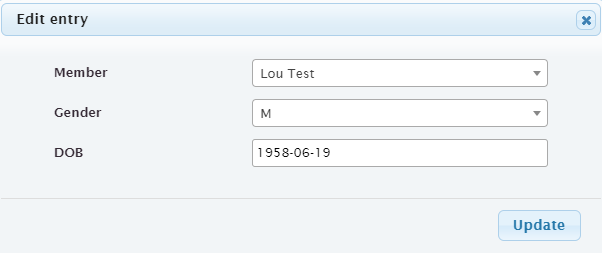
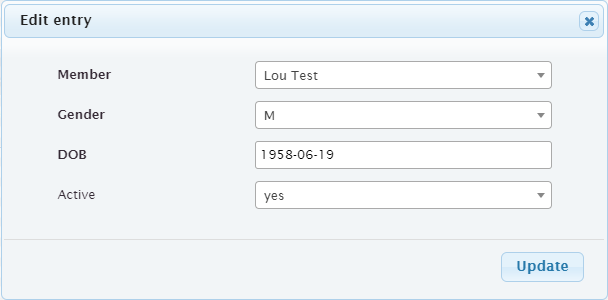
racing team members: add is_active, filter for active members (docs) (#520)

diff --git a/docs/racingteam-admin-guide.rst b/docs/racingteam-admin-guide.rst
@@ -58,10 +58,22 @@ add a member to the team
 ---------------------------
 The team :term:`member` :term:`terms <term>` are managed via the Racing Team Member :term:`position`.
 
-* from :ref:`Positions view` select *Racing Team Member* :term:`position`
-* use the :ref:`Position Wizard` to manage the team membership
-  
-  * add the :term:`member` on the effective date
+* :term:`positions <position>` are used indirectly to assign tasks to people. In the case of the racing team, the task  
+  the racing team member must do is agree to the racing team contract
+
+  * from :ref:`Positions view` select the appropriate *Racing Team Member* :term:`position` (depending on their term)
+  * use the :ref:`Position Wizard` to manage the team membership
+    
+    * add the :term:`member` on the effective date
+
+* :ref:`Racing Team Members view` is used to save the racing team member's gender and birth date, which is used to calculate age grade.
+  This table is also used to populate the name pull-down on the Racing Team Information form.
+
+  * from :ref:`Racing Team Members view`, check *Show inactive members* to see all the members, then search to 
+    see if the new member has been a member of the team before. 
+  * if the new member has been a member of the team before, select the member, then use **Edit** to set the 
+    member **Active** to *yes*
+  * otherwise use **New** to create the new member record
 
 team management
 ----------------------
@@ -79,6 +91,8 @@ The team :term:`member` :term:`terms <term>` are managed via the Racing Team Mem
 * use the :ref:`Position Wizard` to manage the team membership
   
   * remove the :term:`member` on the effective date
+
+* use :ref:`Racing Team Members view` to indicate that the racing team member is not active any more
 
 open racing team applications outside of normal window
 -------------------------------------------------------

diff --git a/docs/racingteam-admin-reference.rst b/docs/racingteam-admin-reference.rst
@@ -229,6 +229,15 @@ Racing Team Members view
 
     :DOB:
         :term:`members <member>` date of birth
+    
+    :Active:
+        if *yes*, indicates :term:`member` is currently on the racing team
+
+The view has the following filters:
+
+    :Show inactive members:
+        check this to see inactive members. This allows old members to be added back to
+        the racing team by checking this then setting the old member's **Active** to *yes*
 
 .. note::
     before using this view, new :term:`members <member>` needs to be created on the :ref:`Members view`, and 
